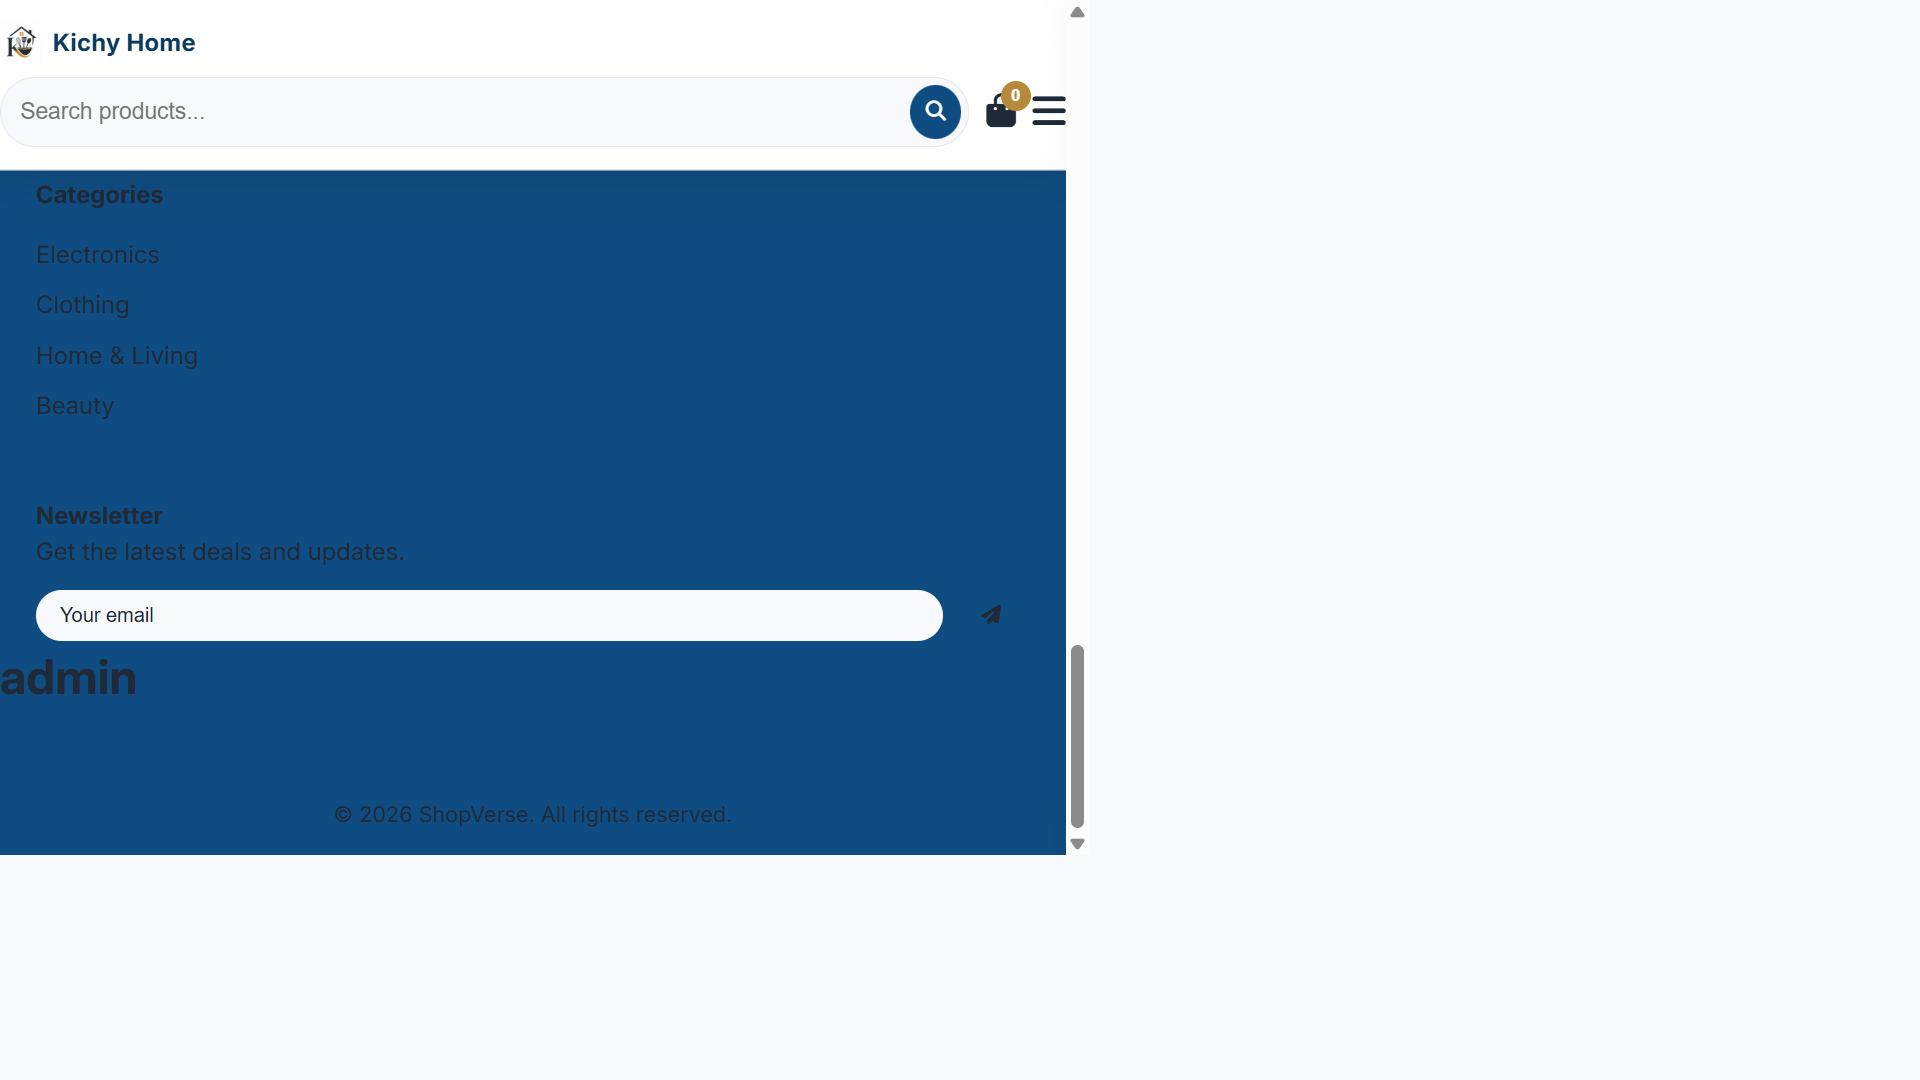
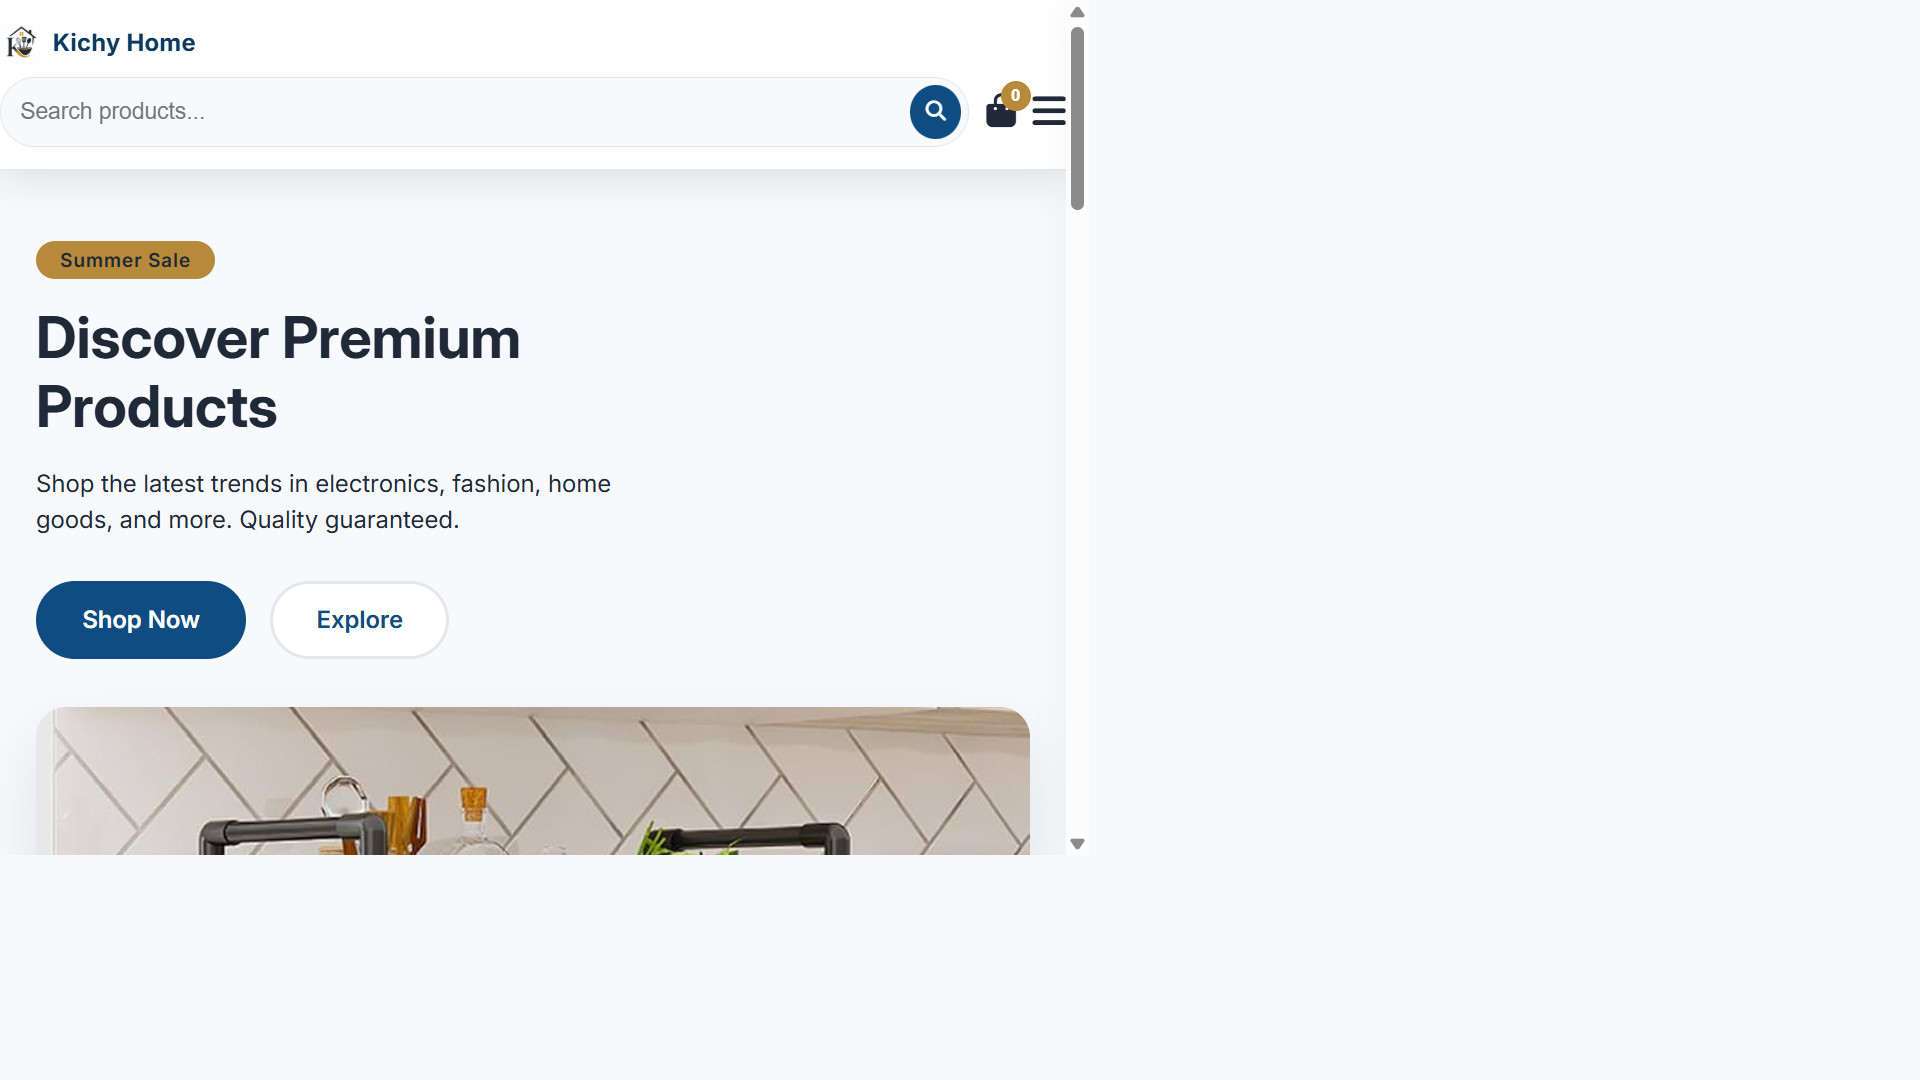
k

diff --git a/src/styles/style.css b/src/styles/style.css
@@ -294,9 +294,13 @@ nav ul li a:hover {
 
 .project-image {
     width: calc(100% + 3rem);
-    height: 160px;
+    max-width: calc(100% + 3rem);
+    height: clamp(140px, 18vw, 180px);
     margin: -1.5rem -1.5rem 1.5rem;
-    object-fit: cover;
+    aspect-ratio: 16 / 9;
+    background-color: #f4f6f8;
+    object-fit: contain;
+    object-position: center;
     display: block;
 }
 
@@ -349,6 +353,109 @@ nav ul li a:hover {
 
 .project-link:hover {
     color: var(--hero-btn-color);
+}
+
+.contact-section {
+    max-width: 1120px;
+    margin: 0 auto;
+    padding: 5rem 4rem 7rem;
+    color: var(--text-white-color);
+    scroll-margin-top: 4rem;
+}
+
+.contact-grid {
+    display: grid;
+    grid-template-columns: minmax(0, 0.85fr) minmax(320px, 1.15fr);
+    gap: 5rem;
+    align-items: start;
+}
+
+.contact-intro > p {
+    color: #dce3eb;
+    font-size: 1.05rem;
+    line-height: 1.8;
+}
+
+.contact-details {
+    display: grid;
+    gap: 1rem;
+    margin-top: 2rem;
+}
+
+.contact-details a {
+    display: flex;
+    align-items: center;
+    gap: 0.85rem;
+    color: var(--text-white-color);
+    text-decoration: none;
+    transition: color 0.3s ease;
+}
+
+.contact-details a:hover {
+    color: var(--hero-btn-color);
+}
+
+.contact-details i {
+    color: var(--hero-btn-color);
+    font-size: 1.4rem;
+}
+
+.contact-form {
+    display: grid;
+    gap: 0.65rem;
+    padding: 1.75rem;
+    background-color: var(--nav-background-color);
+    border: 1px solid rgba(248, 249, 250, 0.15);
+}
+
+.contact-form label {
+    margin-top: 0.5rem;
+    color: #dce3eb;
+    font-size: 0.9rem;
+    font-weight: bold;
+}
+
+.contact-form input,
+.contact-form textarea {
+    width: 100%;
+    padding: 0.85rem 1rem;
+    border: 1px solid rgba(248, 249, 250, 0.2);
+    border-radius: 0.25rem;
+    outline: none;
+    background-color: #14243e;
+    color: var(--text-white-color);
+    font: inherit;
+    resize: vertical;
+    transition: border-color 0.3s ease, box-shadow 0.3s ease;
+}
+
+.contact-form input:focus,
+.contact-form textarea:focus {
+    border-color: var(--hero-btn-color);
+    box-shadow: 0 0 0 3px rgba(255, 165, 0, 0.15);
+}
+
+.contact-submit {
+    display: inline-flex;
+    align-items: center;
+    justify-content: center;
+    gap: 0.5rem;
+    width: fit-content;
+    margin-top: 0.75rem;
+    padding: 0.8rem 1.25rem;
+    border: 0;
+    border-radius: 0.35rem;
+    background-color: var(--hero-btn-color);
+    color: var(--primary-color);
+    cursor: pointer;
+    font: inherit;
+    font-weight: bold;
+    transition: background-color 0.3s ease, transform 0.3s ease;
+}
+
+.contact-submit:hover {
+    background-color: var(--text-white-color);
+    transform: translateY(-0.15rem);
 }
 
 .site-footer {
@@ -627,6 +734,20 @@ nav ul li a:hover {
 
     .project-card {
         min-height: 290px;
+    }
+
+    .contact-section {
+        padding: 4rem 1.25rem 5rem;
+        scroll-margin-top: 3.5rem;
+    }
+
+    .contact-grid {
+        grid-template-columns: 1fr;
+        gap: 2.5rem;
+    }
+
+    .contact-form {
+        padding: 1.25rem;
     }
 
     .site-footer {

diff --git a/home.html b/home.html
@@ -138,7 +138,48 @@
         </div>
     </section>
 
-    <footer id="contact" class="site-footer">
+    <section id="contact" class="contact-section">
+        <div class="section-heading">
+            <p class="section-kicker">Get in touch</p>
+            <h2>Have an idea worth building?</h2>
+        </div>
+
+        <div class="contact-grid">
+            <div class="contact-intro">
+                <p>
+                    Whether you have a project in mind, a question about my work, or an opportunity to collaborate,
+                    I would be glad to hear from you. Share a little about what you are working on and I will get back
+                    to you as soon as possible.
+                </p>
+
+                <div class="contact-details">
+                    <a href="mailto:hello@ltechsolutions.com">
+                        <i class='bx bx-envelope'></i>
+                        <span>hello@ltechsolutions.com</span>
+                    </a>
+                    <a href="tel:+254115903200">
+                        <i class='bx bx-phone'></i>
+                        <span>+254 115 903 200</span>
+                    </a>
+                </div>
+            </div>
+
+            <form class="contact-form" action="mailto:hello@ltechsolutions.com" method="post" enctype="text/plain">
+                <label for="name">Your name</label>
+                <input id="name" name="name" type="text" autocomplete="name" required>
+
+                <label for="email">Email address</label>
+                <input id="email" name="email" type="email" autocomplete="email" required>
+
+                <label for="message">Tell me about your project</label>
+                <textarea id="message" name="message" rows="5" required></textarea>
+
+                <button type="submit" class="contact-submit">Send message <i class='bx bx-send'></i></button>
+            </form>
+        </div>
+    </section>
+
+    <footer class="site-footer">
         <div class="footer-main">
             <div class="footer-brand">
                 <a href="#home" class="footer-logo">
